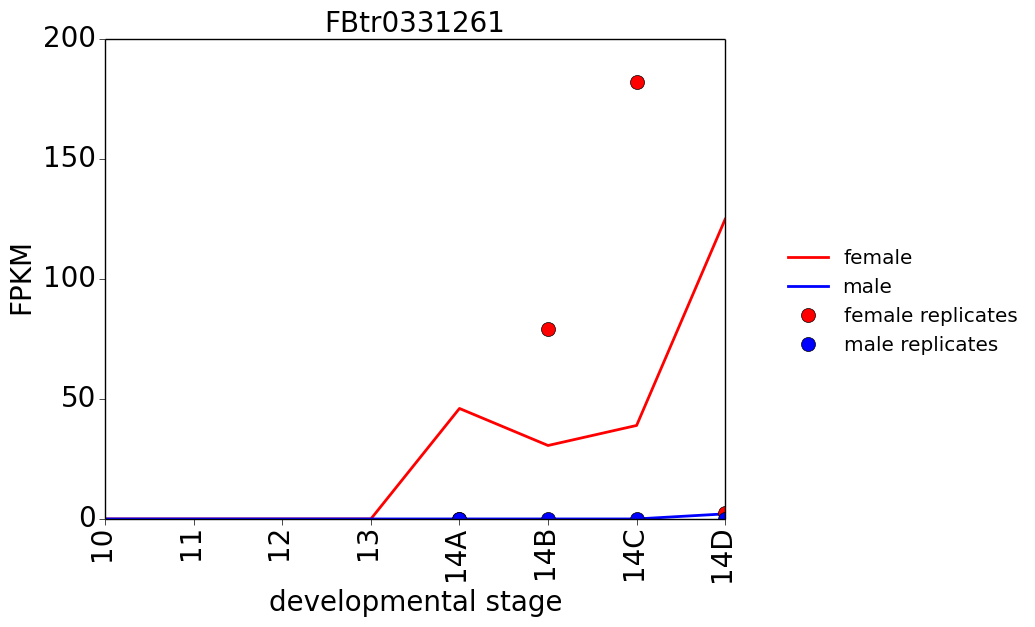
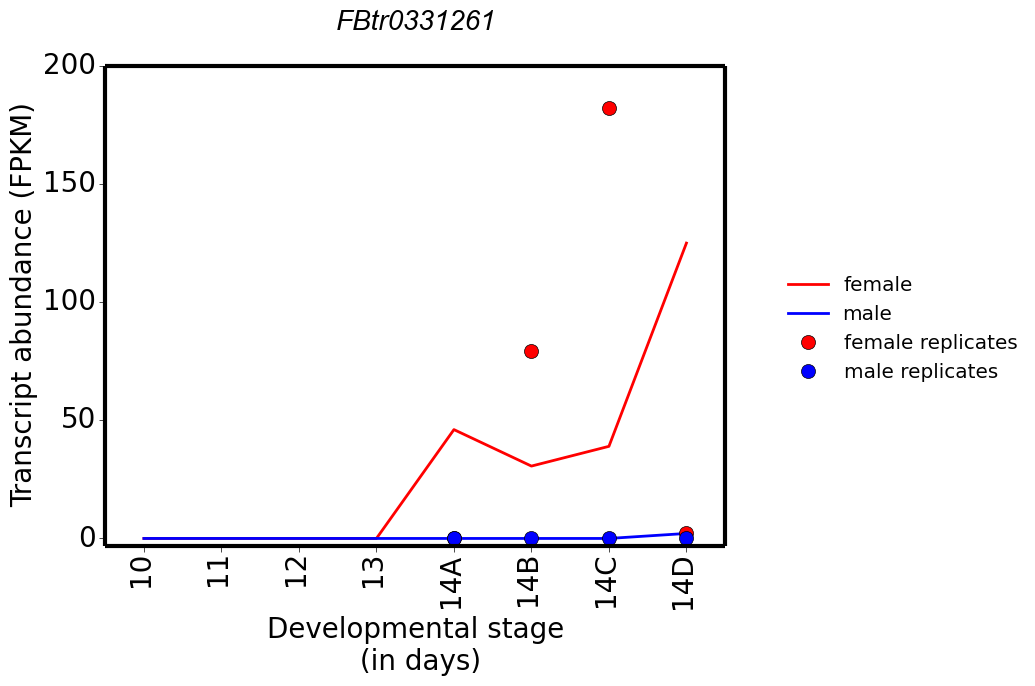
Update

diff --git a/day4-homework/advanced.py b/day4-homework/advanced.py
@@ -1,7 +1,7 @@
 #!/usr/bin/env python
 
 """
-Usage: ./advanced.py <ctab-dir> <gene> <samples.csv>
+Usage: ./advanced.py <ctab-dir> <gene> <samples.csv> <replicates.csv>
 
 """
 
@@ -28,10 +28,10 @@ for sample in df_samples["sample"][soi]:
     df = pd.read_csv(fname,sep="\t")
     roi=df["gene_name"]==gene
     fpkms_f.append(np.mean(df[roi]["FPKM"].values))
-    print df[roi]["FPKM"].values
+  #  print df[roi]["FPKM"].values
     
     
-print fpkms_f
+#print fpkms_f
 
 soi=df_samples["sex"]=="male"
 
@@ -46,18 +46,54 @@ for sample in df_samples["sample"][soi]:
     fpkms_m.append(np.mean(df[roi]["FPKM"].values))
     
     
-print fpkms_m
+#print fpkms_m
+
+df_rep=pd.read_csv(sys.argv[4]) 
+ 
+fpkms_frep=[None,None,None,None]
+soi=df_rep["sex"]=="female"
+
+for sample in df_rep["sample"][soi]:
     
+    fname=os.path.join(sys.argv[1],sample,"t_data.ctab")
+    df = pd.read_csv(fname,sep="\t")
+    roi=df["gene_name"]==gene
+    fpkms_frep.append(np.mean((df[roi]["FPKM"]).values))
+print fpkms_frep
+fpkms_mrep=[None,None,None,None]
+soi=df_rep["sex"]=="male"
+
+for sample in df_rep["sample"][soi]:
+    
+    fname=os.path.join(sys.argv[1],sample,"t_data.ctab")
+    df = pd.read_csv(fname,sep="\t")
+    roi=df["gene_name"]==gene
+    fpkms_mrep.append(np.mean((df[roi]["FPKM"]).values))
+print fpkms_mrep   
 plt.figure()
+plt.rc('xtick',labelsize=20)
+plt.rc('ytick',labelsize=20)
+plt.rc('axes',linewidth=3)
 x=[0,1,2,3,4,5,6,7]
 plt.plot(fpkms_f,c="red",linewidth=2)
 plt.plot(fpkms_m,c='blue',linewidth=2)
+plt.plot(fpkms_frep,'o',c="red",markersize=10)
+plt.plot(fpkms_mrep,'o',c="blue",markersize=10)
+plt.title("Sxl",size=20,style='italic',y=1.06)
+plt.legend(['female','male','female replicates','male replicates'],bbox_to_anchor=(1.5,0.6),frameon=False,numpoints=1)
+plt.axis(linewidth=20,size=20)
 #plt.plot(fpkms_frep,'o',c="red")
 #plt.plot(fpkms_mrep,'o',c="blue")
-plt.legend(['female','male'],loc="upper center",frameon=False)
-plt.xticks(x,["10","11","12","13","14A","14B","14C","14D"])
-plt.xlabel("developmental stage")
-plt.ylabel("FPKM")
-plt.savefig("genetimecourse.png")
+plt.xticks(x,["10","11","12","13","14A","14B","14C","14D"],rotation=90)
+plt.tick_params(right='off',top='off',direction='out')
+plt.xlabel("Developmental stage \n (in days)",size=20)
+plt.ylabel("mRNA abundance (FPKM)",size=20)
+plt.xlim([-0.5,7.5])
+plt.ylim([-0.3,14])
+#plt.legend(['female','male'],loc="upper center",frameon=False)
+#plt.xticks(x,["10","11","12","13","14A","14B","14C","14D"])
+#plt.xlabel("developmental stage")
+#plt.ylabel("FPKM")
+plt.savefig("genetimecourse.png",bbox_inches='tight')
 plt.close
     

diff --git a/day4-homework/homework.py b/day4-homework/homework.py
@@ -66,16 +66,19 @@ plt.figure()
 x=[0,1,2,3,4,5,6,7]
 plt.rc('xtick',labelsize=20)
 plt.rc('ytick',labelsize=20)
+plt.rc('axes',linewidth=3)
 plt.plot(fpkms,c="red",linewidth=2)
 plt.plot(fpkms_male,c='blue',linewidth=2)
 plt.plot(fpkms_frep,'o',c="red",markersize=10)
 plt.plot(fpkms_mrep,'o',c="blue",markersize=10)
-plt.title("FBtr0331261",size=20)
+plt.title("FBtr0331261",size=20,style='italic',y=1.06)
 plt.legend(['female','male','female replicates','male replicates'],bbox_to_anchor=(1.5,0.6),frameon=False,numpoints=1)
 plt.axis(linewidth=20,size=20)
 plt.xticks(x,["10","11","12","13","14A","14B","14C","14D"],rotation=90)
 plt.tick_params(right='off',top='off',direction='out')
-plt.xlabel("developmental stage",size=20)
-plt.ylabel("FPKM",size=20)
+plt.xlabel("Developmental stage \n (in days)",size=20)
+plt.ylabel("Transcript abundance (FPKM)",size=20)
+plt.xlim([-0.5,7.5])
+plt.ylim([-3,200])
 plt.savefig("timecourse.png",bbox_inches='tight')
 plt.close
